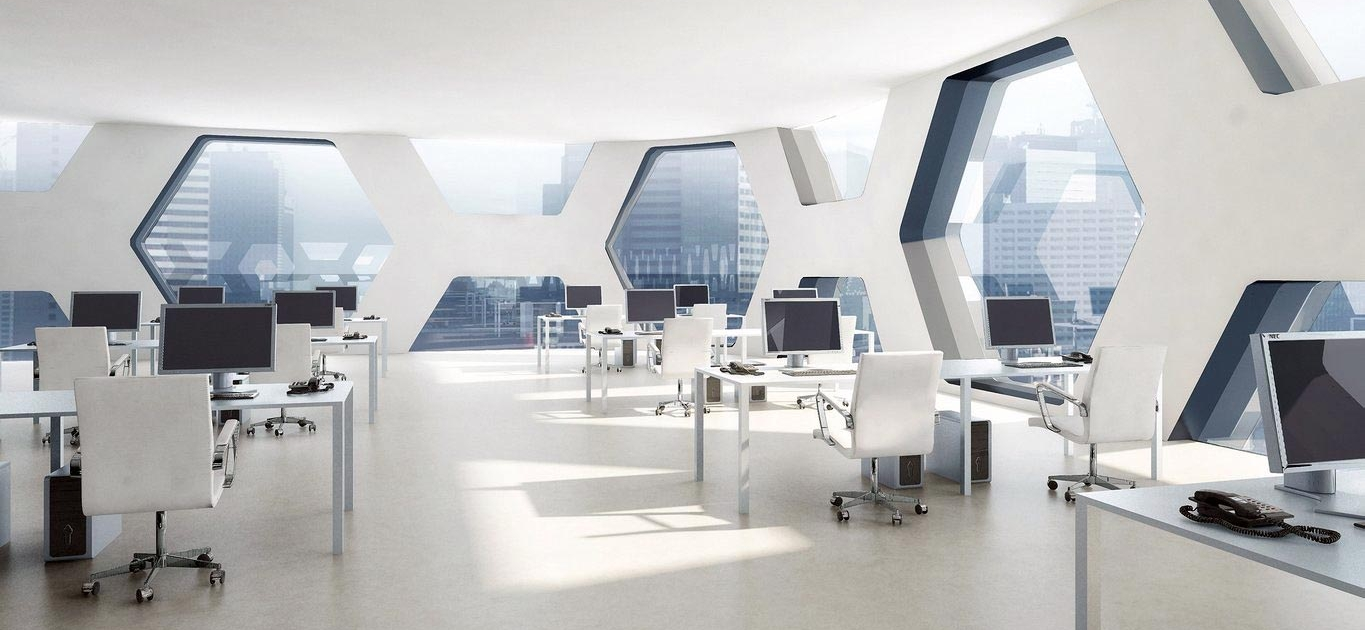
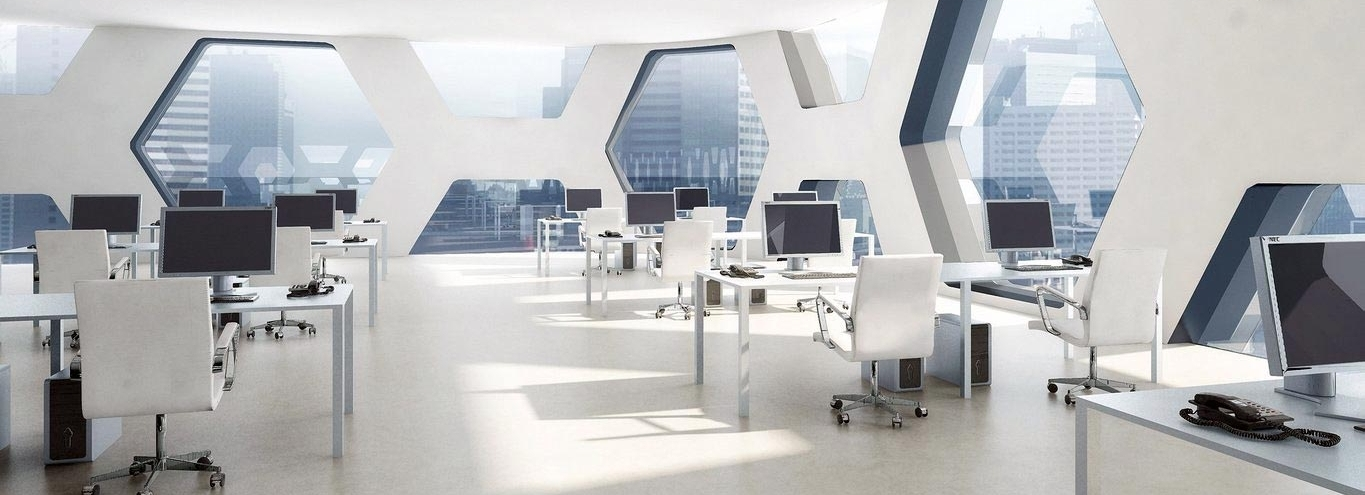
regular

diff --git a/TaskQueue/src/main/webapp/css/stylesheet.css b/TaskQueue/src/main/webapp/css/stylesheet.css
@@ -1,9 +1,4 @@
 @charset "UTF-8";
-/* This CSS File was created by www.pixelateddesign.co.uk */
-/* This is free if you have purchased this templete please contact us useign the email */
-/* info@pixelateddesign.co.uk along with the amount you payed for your website */
-
-/* This file remains property of www.pixelateddesign.co.uk however this is free to use for personal use */
 
 body {
 	margin:0px;
@@ -18,16 +13,17 @@ body {
 	margin-left:auto;
 	margin-right:auto;
 	width:900px;
-	height: 750px;
+	min-height: 750px;
+	height: auto;
 	background-attachment: scroll;
 	background-image: url(../images/office.jpg);
-	background-size:contain;
+	background-size:50%;
 	background-repeat: no-repeat;
 	background-position: right center;
 }
 
 #logo_container {
-	height:90px;
+	height:135px;
 	width:900px;
 	margin-left:auto;
 	margin-right:auto;
@@ -47,7 +43,8 @@ body {
 	margin-top:20px;
 	float:left;
 	background-image: url(../images/logo.png);
-	background-size:cover;
+	background-size: 50%;
+	 
 }
 
 #top_bar_black {

diff --git a/TaskQueue/src/main/java/kz/iskst/dao/AbstractDao.java b/TaskQueue/src/main/java/kz/iskst/dao/AbstractDao.java
@@ -48,7 +48,8 @@ public abstract class AbstractDao<T> {
    }
    
 	protected T selectById(String sql, Extractor<T> extractor, Enricher<T> enricher, int id) throws DaoException, NoSuchEntityException {
-    	Connection conn = getConnection();
+    	logger.debug("selectById start");
+		Connection conn = getConnection();
     	try {
 		    T result;
 		    
@@ -58,8 +59,10 @@ public abstract class AbstractDao<T> {
 		    if (rs.next()) {
 			result = extractor.extractOne(rs);
 			enricher.enrich(result);
+			logger.debug("selectById succefull");
 			return result;
 	    }
+		 
 	    throw new NoSuchEntityException("AbstractDao.selectById ");
 	} catch (SQLException se) {
 	    se.printStackTrace();
@@ -74,13 +77,14 @@ public abstract class AbstractDao<T> {
     protected List<T> selectAll(String sql, Extractor<T> extractor, Enricher<T> enricher) throws DaoException, NoSuchEntityException {
 		Connection conn = getConnection();
     	try {
-    		
+    		logger.debug("selectAll start");
     		List<T> result = null;
 			PreparedStatement ps = conn.prepareStatement(sql);
 			ResultSet rs = ps.executeQuery();
 			result = extractor.extractAll(rs);
 			if (result != null){
 				enricher.enrichAll(result);
+				logger.debug("selectAll succefull");
 				return result;
 		}
 			else throw new NoSuchEntityException("AbstractDao.selectAll");
